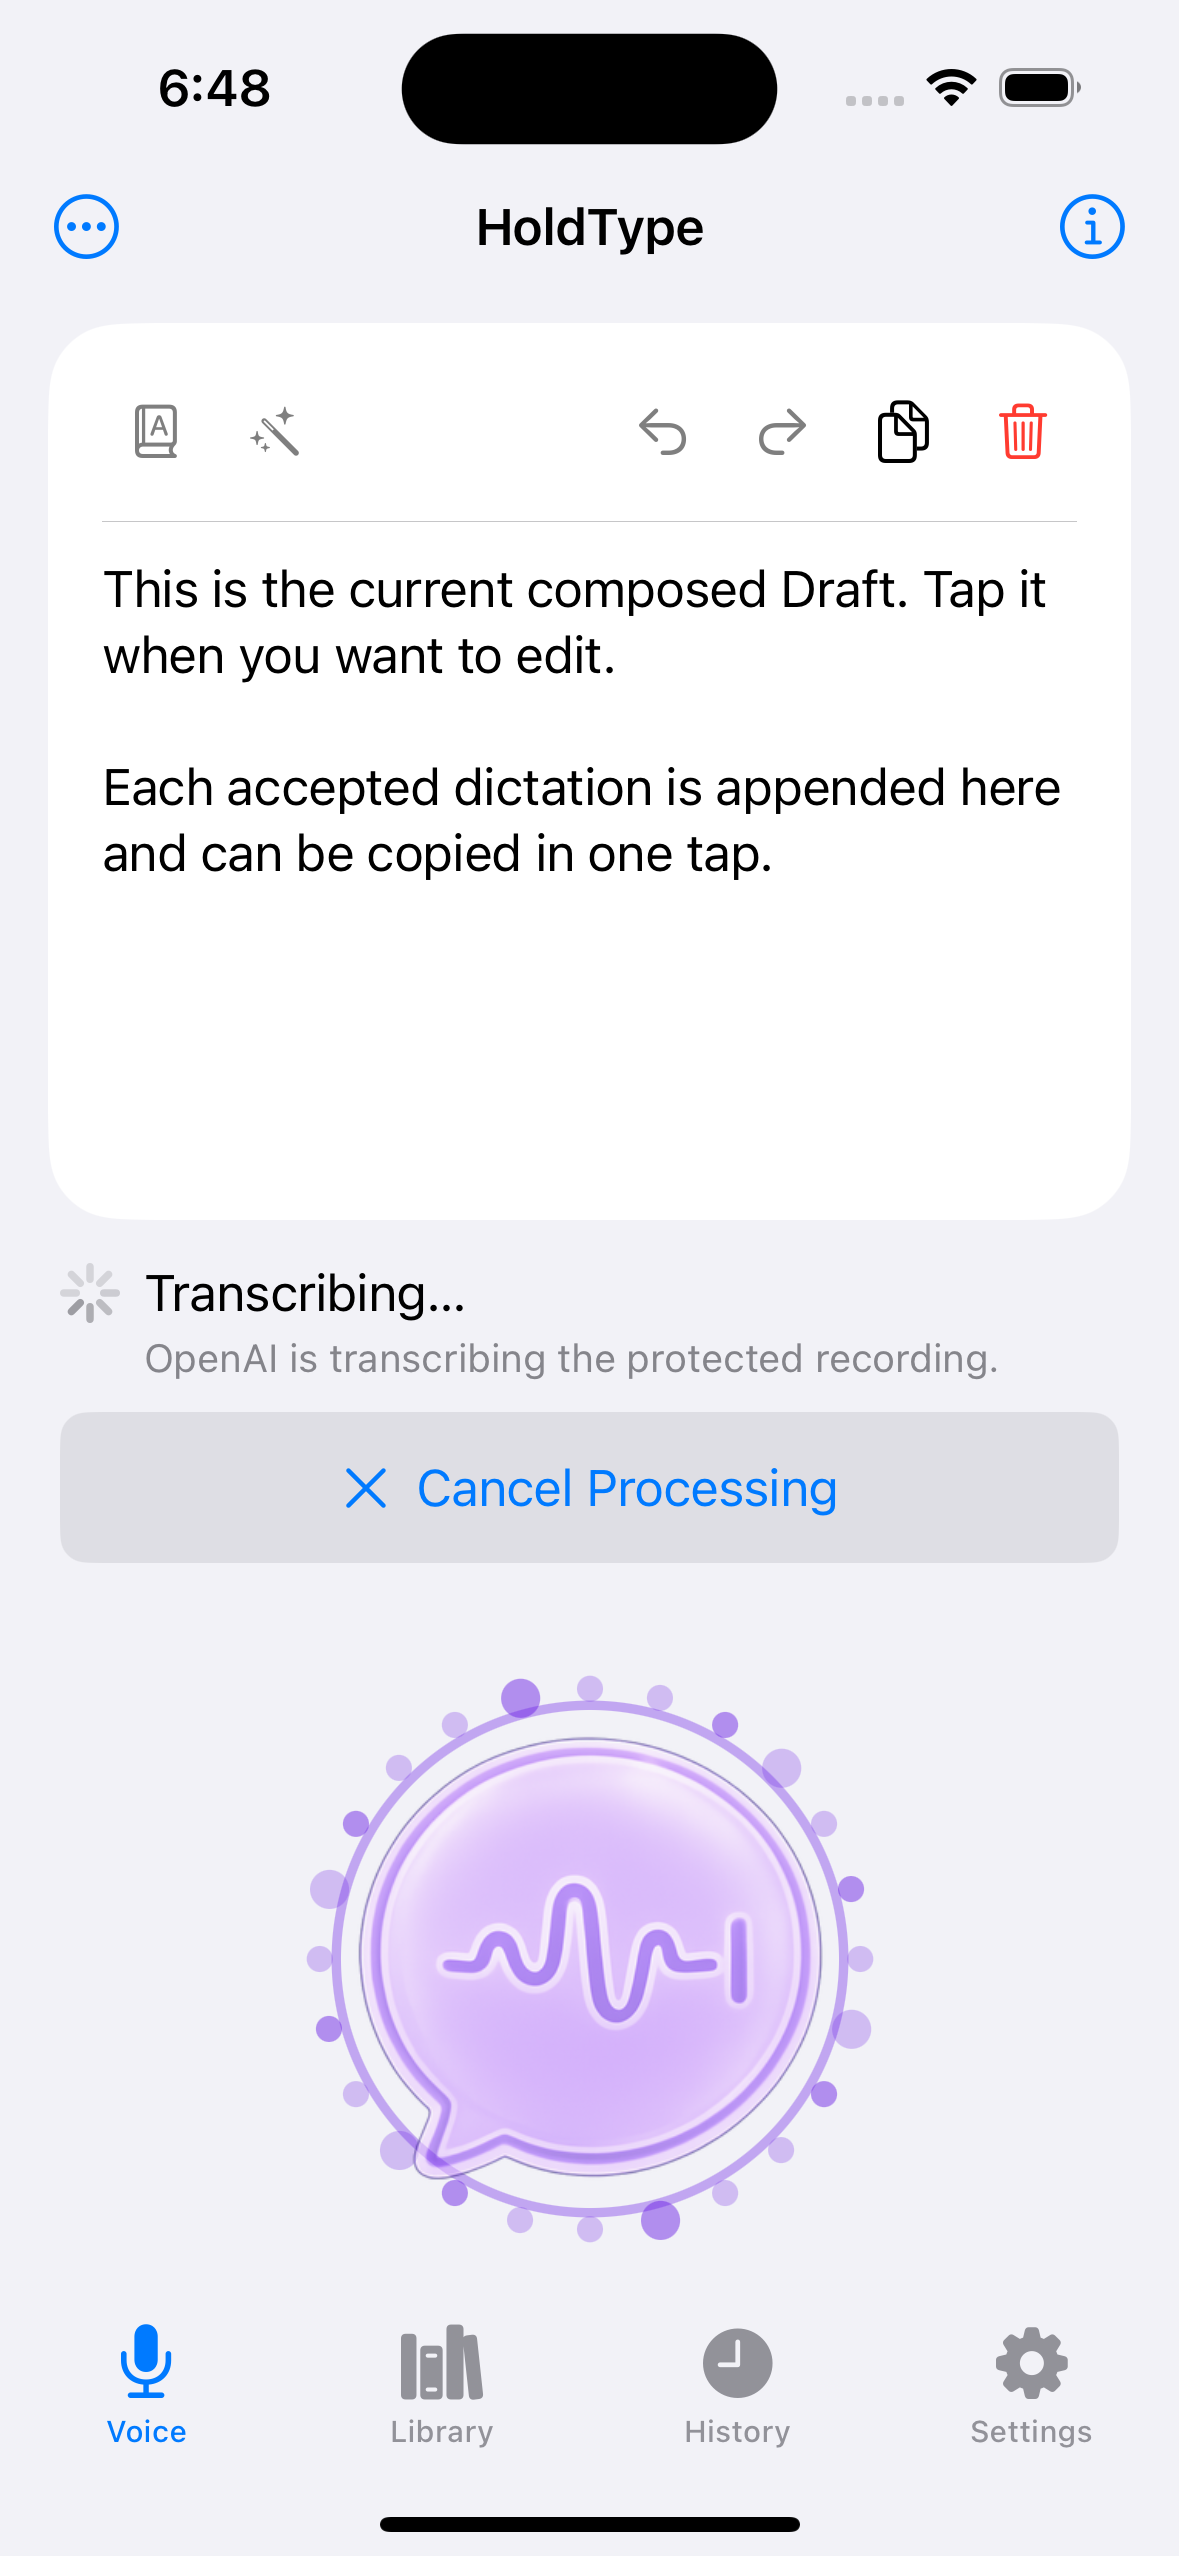
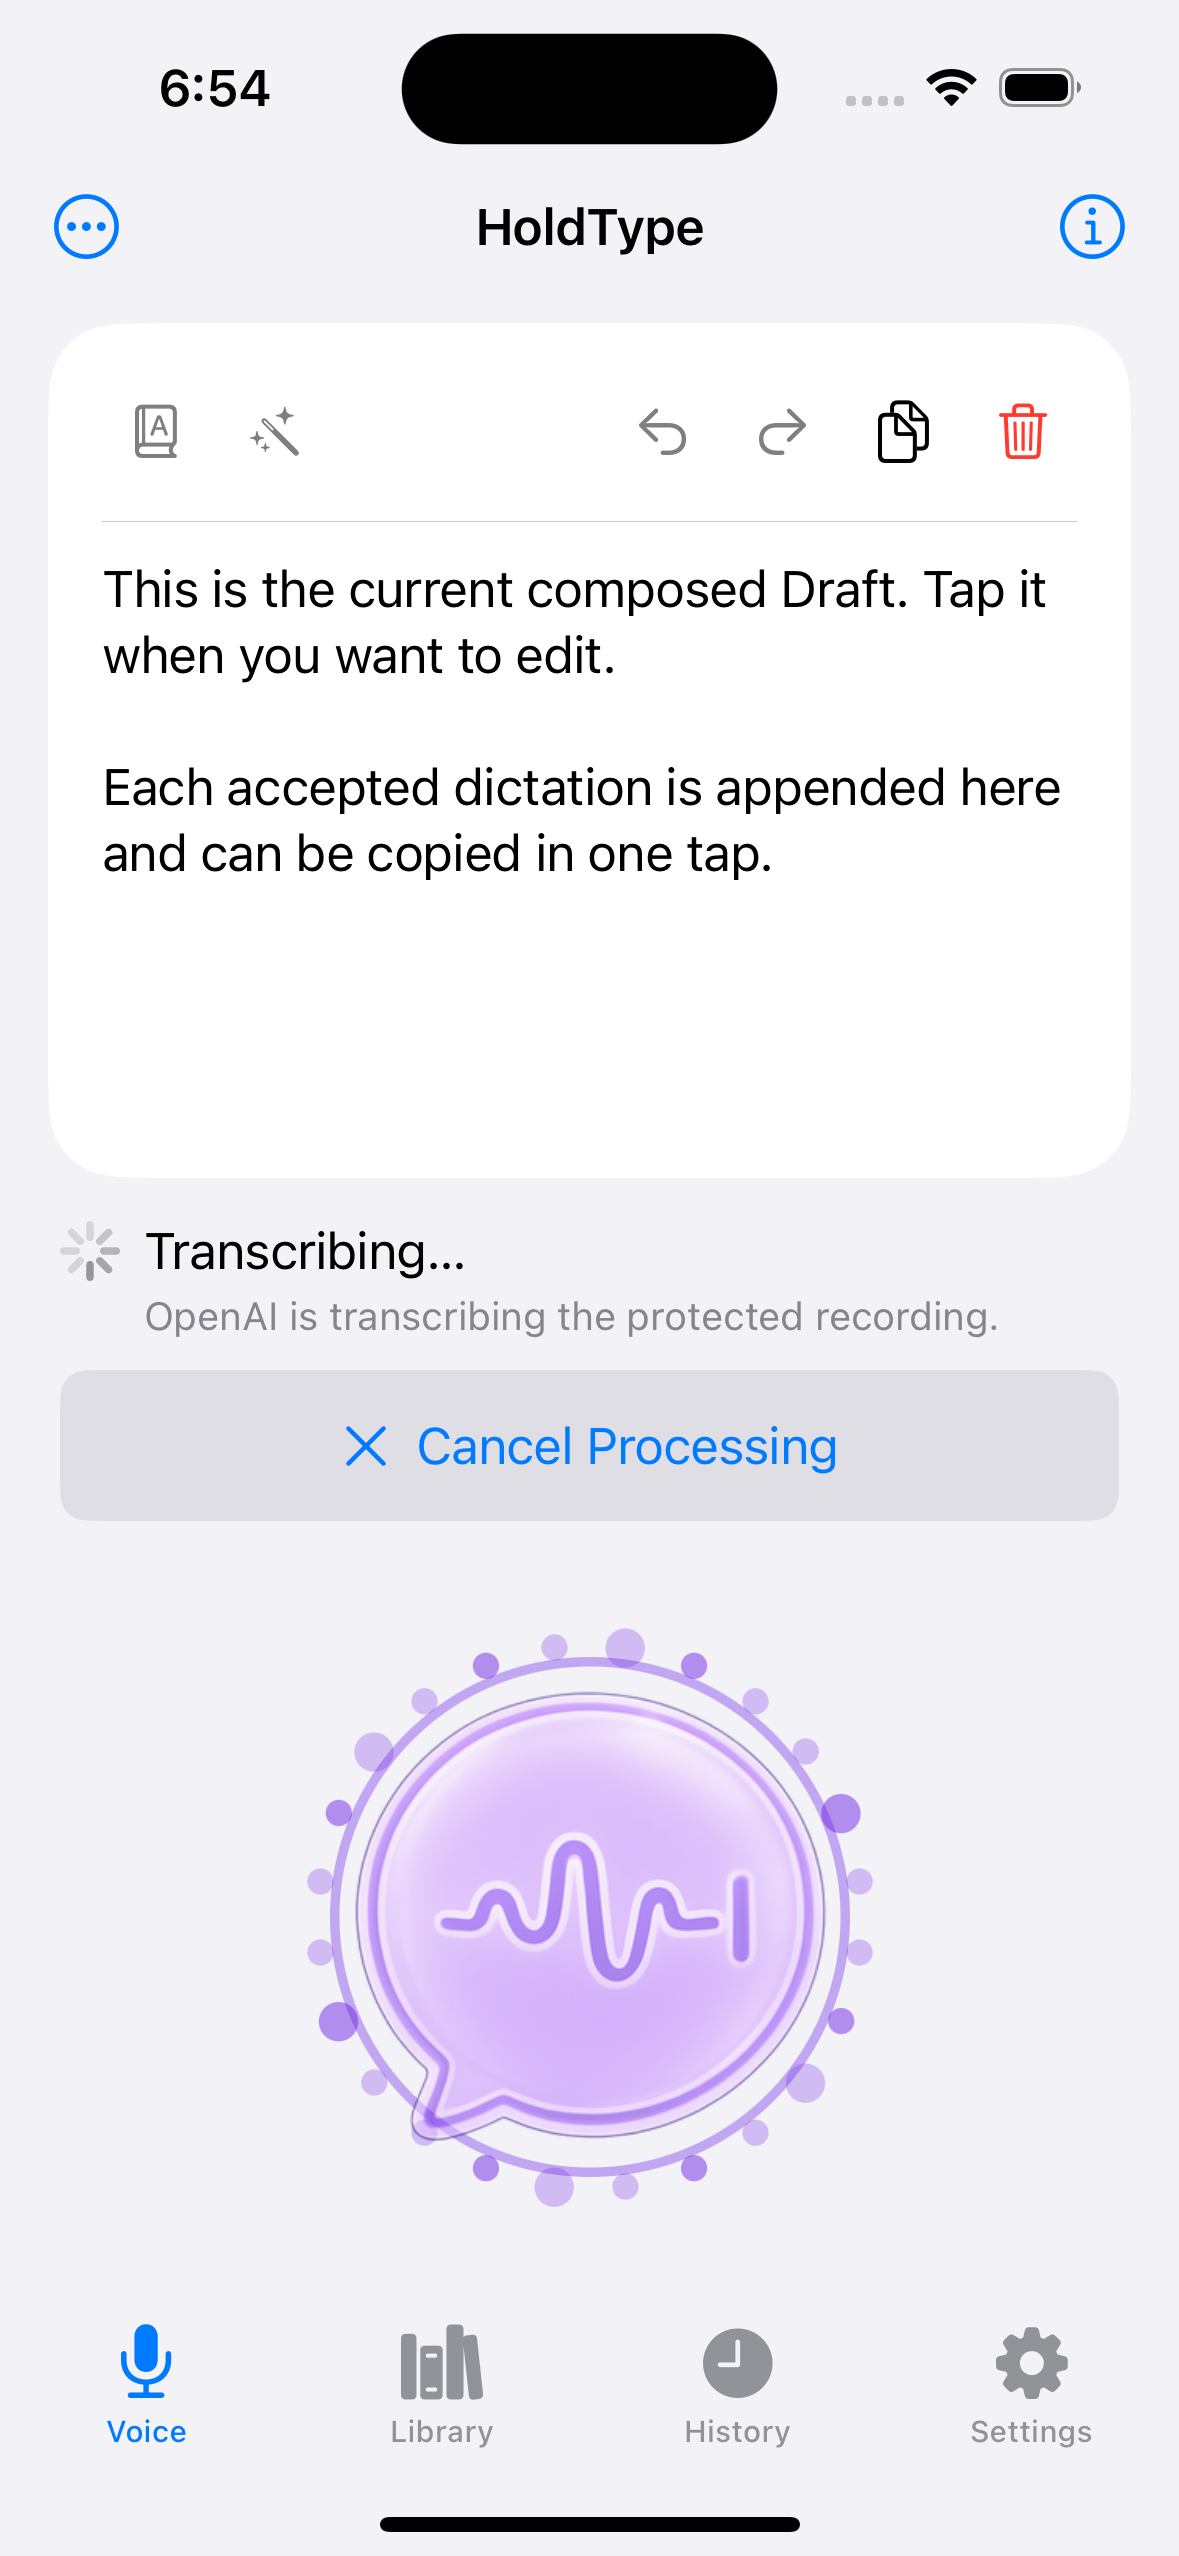
fix(ios): center voice activity in free space

diff --git a/HoldTypeIOS/IOSVoiceHomeView.swift b/HoldTypeIOS/IOSVoiceHomeView.swift
@@ -46,6 +46,7 @@ struct IOSVoiceHomeView: View {
                     voiceStatusSurface
                     Spacer(minLength: 0)
                     primaryVoiceSurface
+                    Spacer(minLength: 0)
                 }
                 .frame(
                     minHeight: max(0, geometry.size.height - 22),

diff --git a/docs/specs/features/ios-voice-draft.md b/docs/specs/features/ios-voice-draft.md
@@ -63,11 +63,12 @@ without opening the custom keyboard.
 
 ## Primary Voice Control
 
-- A large Start Dictation action stays below the Draft in the lower thumb
-  region. It uses the same text-free HoldType activity artwork and motion as
-  the macOS floating indicator instead of placing a microphone, progress
-  spinner, or action label over the artwork. Its action name and state remain
-  available to VoiceOver.
+- A large Start Dictation action stays below the status and remains vertically
+  centered inside the flexible free area above the tab bar. It must not stick
+  to the bottom when that free area grows. It uses the same text-free HoldType
+  activity artwork and motion as the macOS floating indicator instead of
+  placing a microphone, progress spinner, or action label over the artwork.
+  Its action name and state remain available to VoiceOver.
 - Ready shows the static idle activity mark as an active Start Dictation
   control.
 - Listening uses the same primary location for Done, shows elapsed time plus a

diff --git a/docs/qa/runs/ios-macos-activity-control-2026-07-14.md b/docs/qa/runs/ios-macos-activity-control-2026-07-14.md
@@ -21,6 +21,11 @@ The native Button keeps its current action label and phase as VoiceOver-only
 content. Reduce Motion uses the complete static recording or transcription
 artwork instead of rotating or pulsing it.
 
+The activity control is vertically centered between equal flexible spaces in
+the remaining area below the status surface. It no longer sticks to the bottom
+when the screen or available content area grows; constrained layouts collapse
+the flexible spaces before the surrounding ScrollView takes over.
+
 ## Visual Evidence
 
 Both captures use iPhone 16, iOS 18.6, the DEBUG-only side-effect-free